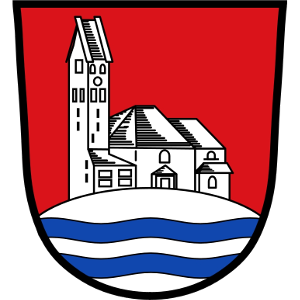
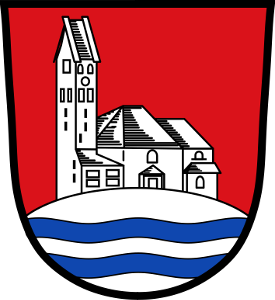
further enhance wappen

diff --git a/index.md b/index.md
@@ -25,7 +25,7 @@ Und nun viel Spaß beim Stöbern :)
 </div>
 
   <div class="col-md-4">
-   <img src="/assets/wappen.png" alt="Wappen Bergkirchen" height="300" width="300"/>
+   <img src="/assets/wappen.png" alt="Wappen Bergkirchen" height="300" width="275"/>
   </div>
 
 </div>
